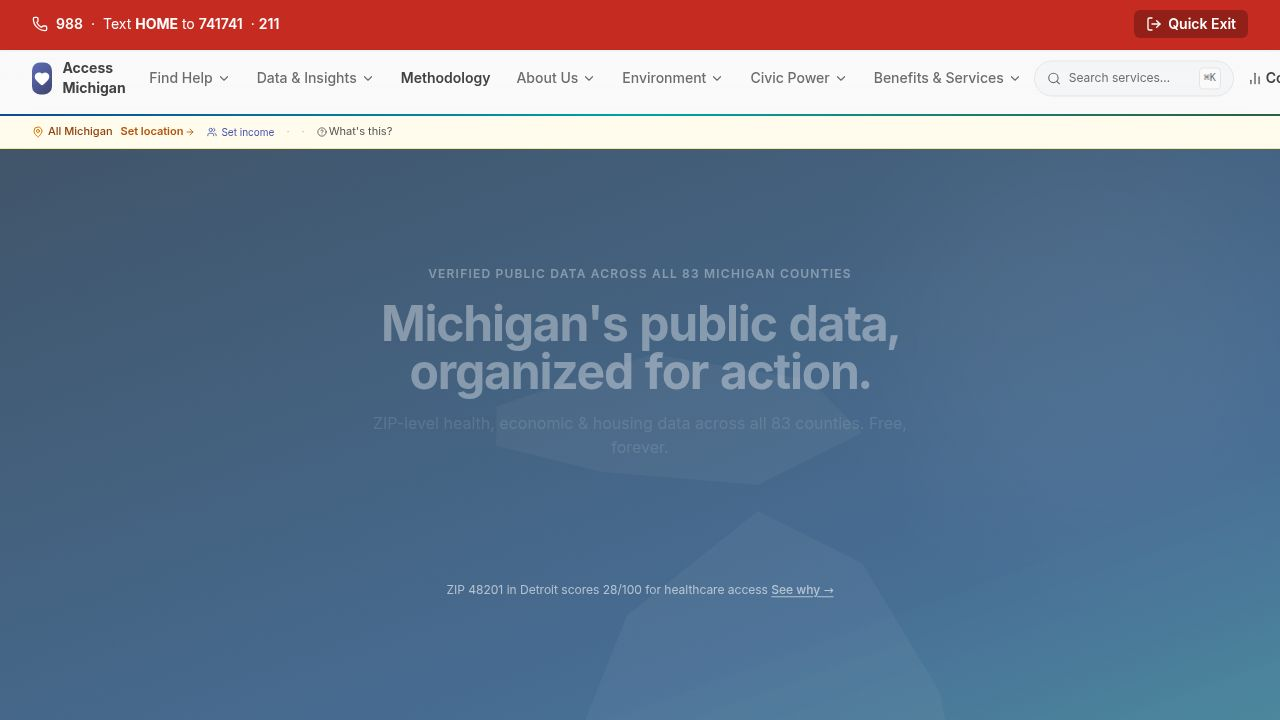
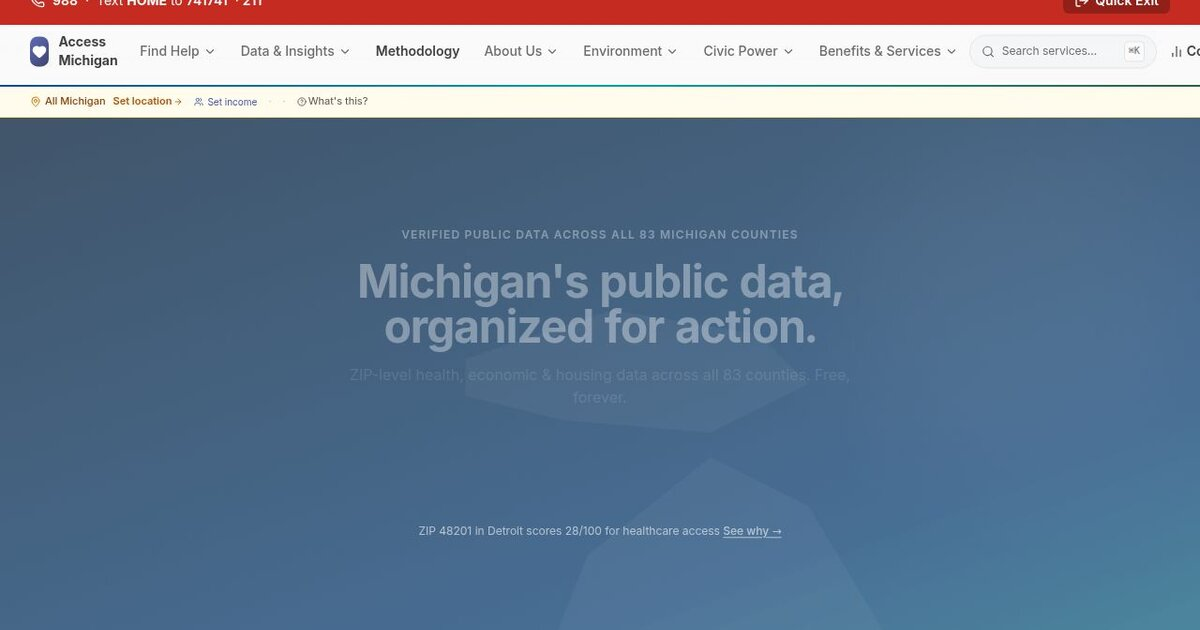
fix(seo): meta tag lengths + og:image aspect ratio per inspector findings
- title 81→52 chars (/): "Access Michigan: Health, Housing & Energy Assistance"
- title 71→60 chars (/zip-intelligence): "Michigan ZIP Health Score: 40 CDC Measures | Access Michigan"
- og:image cropped 1280×720 → 1200×630 (1.91:1), 46 KB, center-weighted
  (removes ~22px from top/bottom only; logo, nav, and hero headline intact)
- DEFAULT_OG_IMAGE in site.ts updated from 0-byte og-image.png to opengraph.jpg
- descriptions trimmed to ≤155 chars across all 13 overlong routes in routeMeta.ts:
  /, /methodology, /health-map, /transportation, /find-care, /benefits,
  /quality, /financial-help, /environment, /energy, /about,
  /health-equity-atlas, /brief
- all og:/twitter: variants stay identical to canonical (no per-platform divergence)

diff --git a/artifacts/access-mi/src/config/routeMeta.ts b/artifacts/access-mi/src/config/routeMeta.ts
@@ -40,10 +40,9 @@ export interface RouteMeta {
 export const ROUTE_META: RouteMeta[] = [
   {
     path: "/",
-    title:
-      "Access Michigan: Health, Housing, Energy & Services | Open Data | Access Michigan",
+    title: "Access Michigan: Health, Housing & Energy Assistance",
     description:
-      "Michigan's independent open civic intelligence platform. ZIP-level health, housing, energy, and benefits data sourced from 41 verified federal, state, and nonprofit public sources. Free, no account required.",
+      "Michigan health, housing, energy, and benefits data for all 83 counties. Verified from 41 federal and public sources. Free, no account required.",
     h1: "Michigan's public data, organized for action",
     summary:
       "ZIP-level health, economic, and housing data across 83 counties. Free. Forever.",
@@ -52,7 +51,7 @@ export const ROUTE_META: RouteMeta[] = [
     path: "/methodology",
     title: "Methodology | Access Michigan",
     description:
-      "How Access Michigan sources, validates, and presents Michigan civic data. Data classification (verified, modeled, projected), the Civic Insight Score formula, and equity-centered design principles.",
+      "How Access Michigan sources and validates civic data. Covers data classification, the Civic Insight Score, and equity-centered design principles.",
     h1: "Methodology and data transparency",
     summary:
       "Sourcing, validation, and a transparent record of every score and threshold on the platform.",
@@ -61,7 +60,7 @@ export const ROUTE_META: RouteMeta[] = [
     path: "/health-map",
     title: "Michigan Health Map | Access Michigan",
     description:
-      "Interactive map of Michigan health facilities, federally qualified health centers, behavioral health providers, and CMS-rated hospitals across all 83 counties.",
+      "Interactive map of Michigan health facilities: FQHCs, behavioral health providers, and CMS-rated hospitals across all 83 counties.",
     h1: "Michigan Health Map",
     summary:
       "Locate hospitals, clinics, FQHCs, and behavioral health services anywhere in Michigan.",
@@ -70,7 +69,7 @@ export const ROUTE_META: RouteMeta[] = [
     path: "/transportation",
     title: "Transportation Access | Access Michigan",
     description:
-      "Public transit, paratransit, non-emergency medical transport, and rural ride programs across Michigan's 83 counties. Sourced from MDOT, SEMCOG, and the federal Bureau of Transportation Statistics.",
+      "Public transit, paratransit, non-emergency medical transport, and rural ride programs across Michigan's 83 counties. Sourced from MDOT and SEMCOG.",
     h1: "Transportation access in Michigan",
     summary:
       "Rural transit, ADA paratransit, NEMT, and rideshare programs by county.",
@@ -79,7 +78,7 @@ export const ROUTE_META: RouteMeta[] = [
     path: "/find-care",
     title: "Find Care Near You | Access Michigan",
     description:
-      "Search Michigan healthcare providers by ZIP, county, specialty, or insurance. Federally qualified health centers, sliding-scale clinics, behavioral health, and Leapfrog-rated hospitals.",
+      "Search Michigan healthcare providers by ZIP or county. FQHCs, sliding-scale clinics, behavioral health providers, and Leapfrog-rated hospitals.",
     h1: "Find Care Near You",
     summary:
       "Search Michigan providers, clinics, and hospitals by ZIP or county.",
@@ -88,7 +87,7 @@ export const ROUTE_META: RouteMeta[] = [
     path: "/benefits",
     title: "Benefits Education | Access Michigan",
     description:
-      "Educational explainers of Michigan benefit programs: a sourced life-stage map, how eligibility rules work, and a benefits-cliff explainer. Informational only. Eligibility is decided by the program.",
+      "Educational explainers of Michigan benefit programs: a life-stage map, eligibility rules, and a benefits-cliff explainer. Informational only.",
     h1: "How Michigan benefit programs work",
     summary: "Three educational tools, one page. Sourced. Informational only.",
   },
@@ -96,7 +95,7 @@ export const ROUTE_META: RouteMeta[] = [
     path: "/quality",
     title: "Hospital Quality & Safety Ratings | Access Michigan",
     description:
-      "Compare Michigan hospitals on Leapfrog safety grades, CMS quality scores, Magnet recognition, and patient experience metrics. Sourced from CMS Hospital Compare and Leapfrog Hospital Safety Grade.",
+      "Compare Michigan hospitals on Leapfrog safety grades, CMS quality scores, Magnet status, and patient experience metrics. Sourced from CMS and Leapfrog.",
     h1: "Hospital Quality & Safety Ratings",
     summary:
       "Independent safety grades, CMS quality scores, and accreditations for Michigan hospitals.",
@@ -132,7 +131,7 @@ export const ROUTE_META: RouteMeta[] = [
     path: "/financial-help",
     title: "Financial Help | Access Michigan",
     description:
-      "Michigan financial assistance programs for healthcare, housing, energy, and food. Includes a preliminary eligibility screener and links to the official MI Bridges application portal.",
+      "Michigan financial assistance programs for healthcare, housing, energy, and food. Preliminary eligibility screener links to MI Bridges.",
     h1: "Financial Help",
     summary:
       "Michigan financial assistance programs, with a preliminary screener routing to MI Bridges.",
@@ -157,8 +156,7 @@ export const ROUTE_META: RouteMeta[] = [
   },
   {
     path: "/zip-intelligence",
-    title:
-      "Health Score for Any Michigan ZIP Code | 40 CDC Measures | accessmi.org",
+    title: "Michigan ZIP Health Score: 40 CDC Measures | Access Michigan",
     description:
       "Type your ZIP code. See 40 health, equity, and social measures. Build custom charts. Compare to Michigan and national averages.",
     h1: "Know your neighborhood",
@@ -169,7 +167,7 @@ export const ROUTE_META: RouteMeta[] = [
     path: "/environment",
     title: "Environment | Access Michigan",
     description:
-      "Michigan environmental data: PFAS contamination sites, EJSCREEN equity indicators, FEMA flood and disaster risk, EGLE water infrastructure, and EPA TRI/ECHO facility records.",
+      "Michigan environmental data: PFAS sites, EJSCREEN equity indicators, FEMA flood risk, EGLE water infrastructure, and EPA TRI/ECHO facility records.",
     h1: "Michigan environmental data",
     summary:
       "PFAS, water infrastructure, environmental justice, and disaster risk by county.",
@@ -204,7 +202,7 @@ export const ROUTE_META: RouteMeta[] = [
     path: "/energy",
     title: "Energy | Access Michigan",
     description:
-      "Michigan energy data: LIHEAP and State Emergency Relief eligibility, MEAP heating assistance, MiHER home energy rebates, and Consumers Energy and DTE equity programs.",
+      "Michigan energy data: LIHEAP and State Emergency Relief eligibility, MEAP heating assistance, MiHER rebates, and utility equity programs.",
     h1: "Energy assistance in Michigan",
     summary:
       "Heating assistance, rebates, and clean-energy financing programs by county.",
@@ -249,7 +247,7 @@ export const ROUTE_META: RouteMeta[] = [
     path: "/about",
     title: "About | Access Michigan",
     description:
-      "Access Michigan is a nonpartisan, independent, citizen-built open data platform. Mission, methodology, governance, and how to contribute or replicate the platform.",
+      "Access Michigan is a nonpartisan, independent, citizen-built civic data platform. Mission, methodology, governance, and how to contribute.",
     h1: "About Access Michigan",
     summary:
       "A nonpartisan civic intelligence platform for Michigan, built on public data.",
@@ -266,7 +264,7 @@ export const ROUTE_META: RouteMeta[] = [
     path: "/health-equity-atlas",
     title: "Michigan Health Equity Atlas | Access Michigan",
     description:
-      "10 health-equity layers across Michigan's 83 counties: compound access deficit, food deserts, broadband, infant mortality, environmental justice, energy burden, uninsured, poverty, ALICE rate, and pharmacy access.",
+      "10 health-equity layers across Michigan's 83 counties: access deficit, food deserts, broadband, infant mortality, environmental justice, and energy burden.",
     h1: "Michigan Health Equity Atlas",
     summary: "10 equity layers, 83 counties, one map.",
   },
@@ -283,7 +281,7 @@ export const ROUTE_META: RouteMeta[] = [
     path: "/brief",
     title: "County Brief | Access Michigan",
     description:
-      "Citation-grade county brief for any Michigan county: population, facility count, uninsured rate, food insecurity, primary care ratio, and economic hardship. Each statistic carries its source, vintage, and integrity label.",
+      "Citation-grade county brief: population, facilities, uninsured rate, food insecurity, and primary care ratio. Each statistic sourced and labeled.",
     h1: "Michigan County Brief",
     summary:
       "One-page sourced county brief for health departments, journalists, and grant writers. Free.",

diff --git a/artifacts/access-mi/src/config/site.ts b/artifacts/access-mi/src/config/site.ts
@@ -1,3 +1,3 @@
 export const SITE_NAME = "Access Michigan";
 export const BASE_URL = "https://accessmi.org";
-export const DEFAULT_OG_IMAGE = "/og-image.png";
+export const DEFAULT_OG_IMAGE = "/opengraph.jpg";